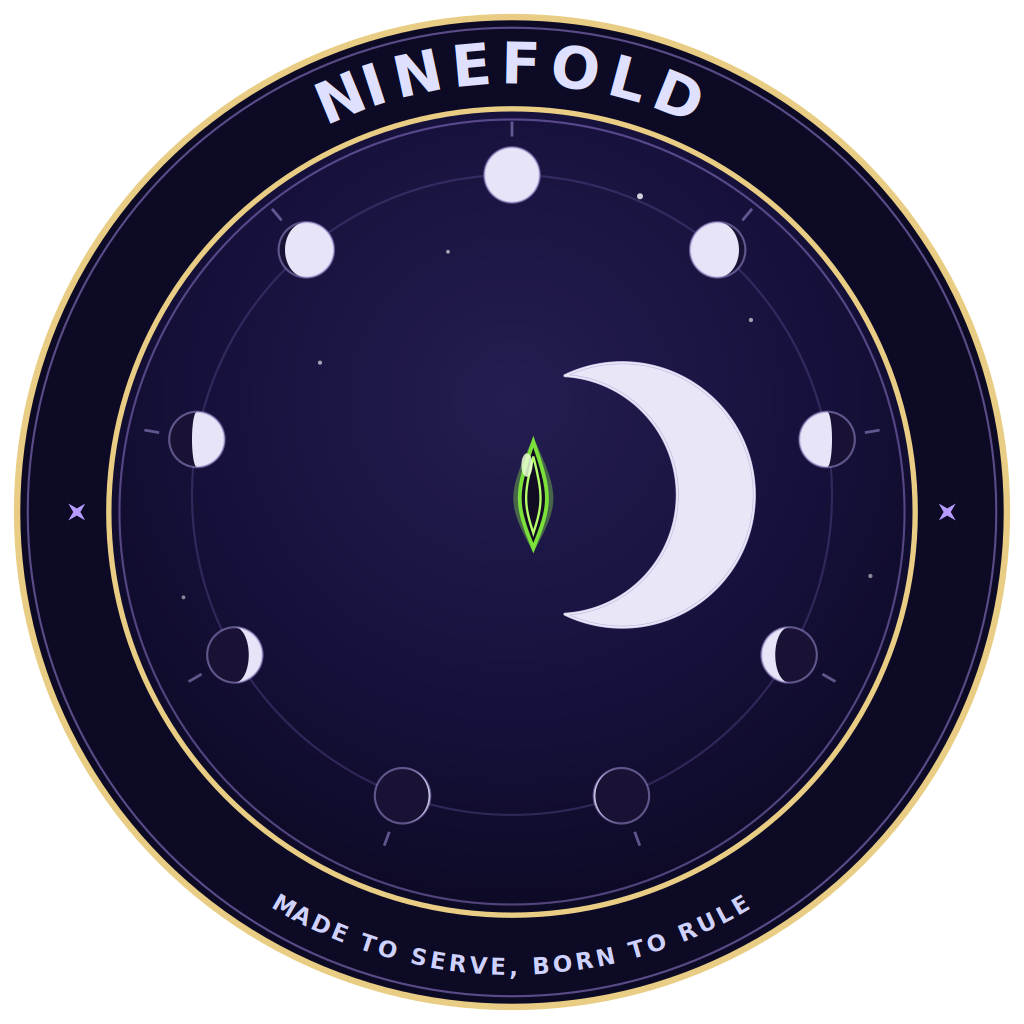
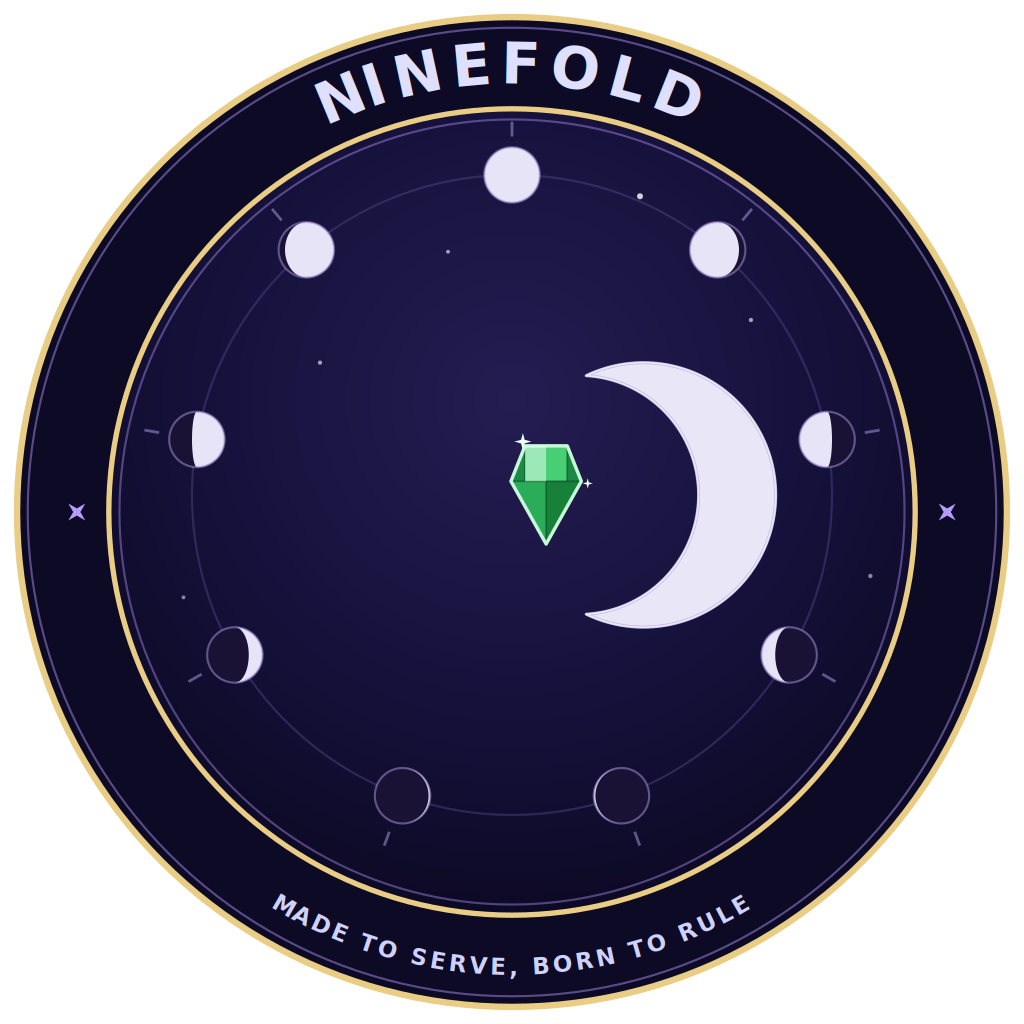
Ninefold: recenter crescent, swap cat-eye for a glimmering gem
Nudge the crescent toward center and replace the cat-slit eye with a
faceted green gem cradled in the moon's hollow: cut facets, a soft green
glow, and sparkle glints so it reads as a jewel shining in moonlight.

https://claude.ai/code/session_011UPzS9XkJbwuZtqhiJkvF1

Changed region(s): [[0.5625, 0.3438, 0.6875, 0.625], [0.6875, 0.375, 0.7812, 0.5938], [0.5, 0.4062, 0.5625, 0.5312]]

diff --git a/assets/branding/README.md b/assets/branding/README.md
@@ -40,7 +40,7 @@ distinct central motif, palette, and motto on the shared gold-ringed disc.
 | `emblem` (Astromancers) | hooded magus conjuring a starship | SCIENTIA EST MAGIA |
 | `factions/hollowmen` | rim-lit mech torso, a station firing into its heart | WE MAKE OUR OWN POWER |
 | `factions/rimeling` | crystalline chalice drinking borrowed fire (Jupiter + 4 moons) | ALL FIRE IS BORROWED |
-| `factions/ninefold` | witch-crescent cradling a green cat-slit eye, ringed by nine moon phases | MADE TO SERVE, BORN TO RULE |
+| `factions/ninefold` | witch-crescent cradling a glimmering green gem, ringed by nine moon phases | MADE TO SERVE, BORN TO RULE |
 | `factions/warren` | rat-tower planting a flag on the moon | THERE ARE ALWAYS MORE OF US |
 
 The four non-flagship patches were generated by a script (per-faction motif on
